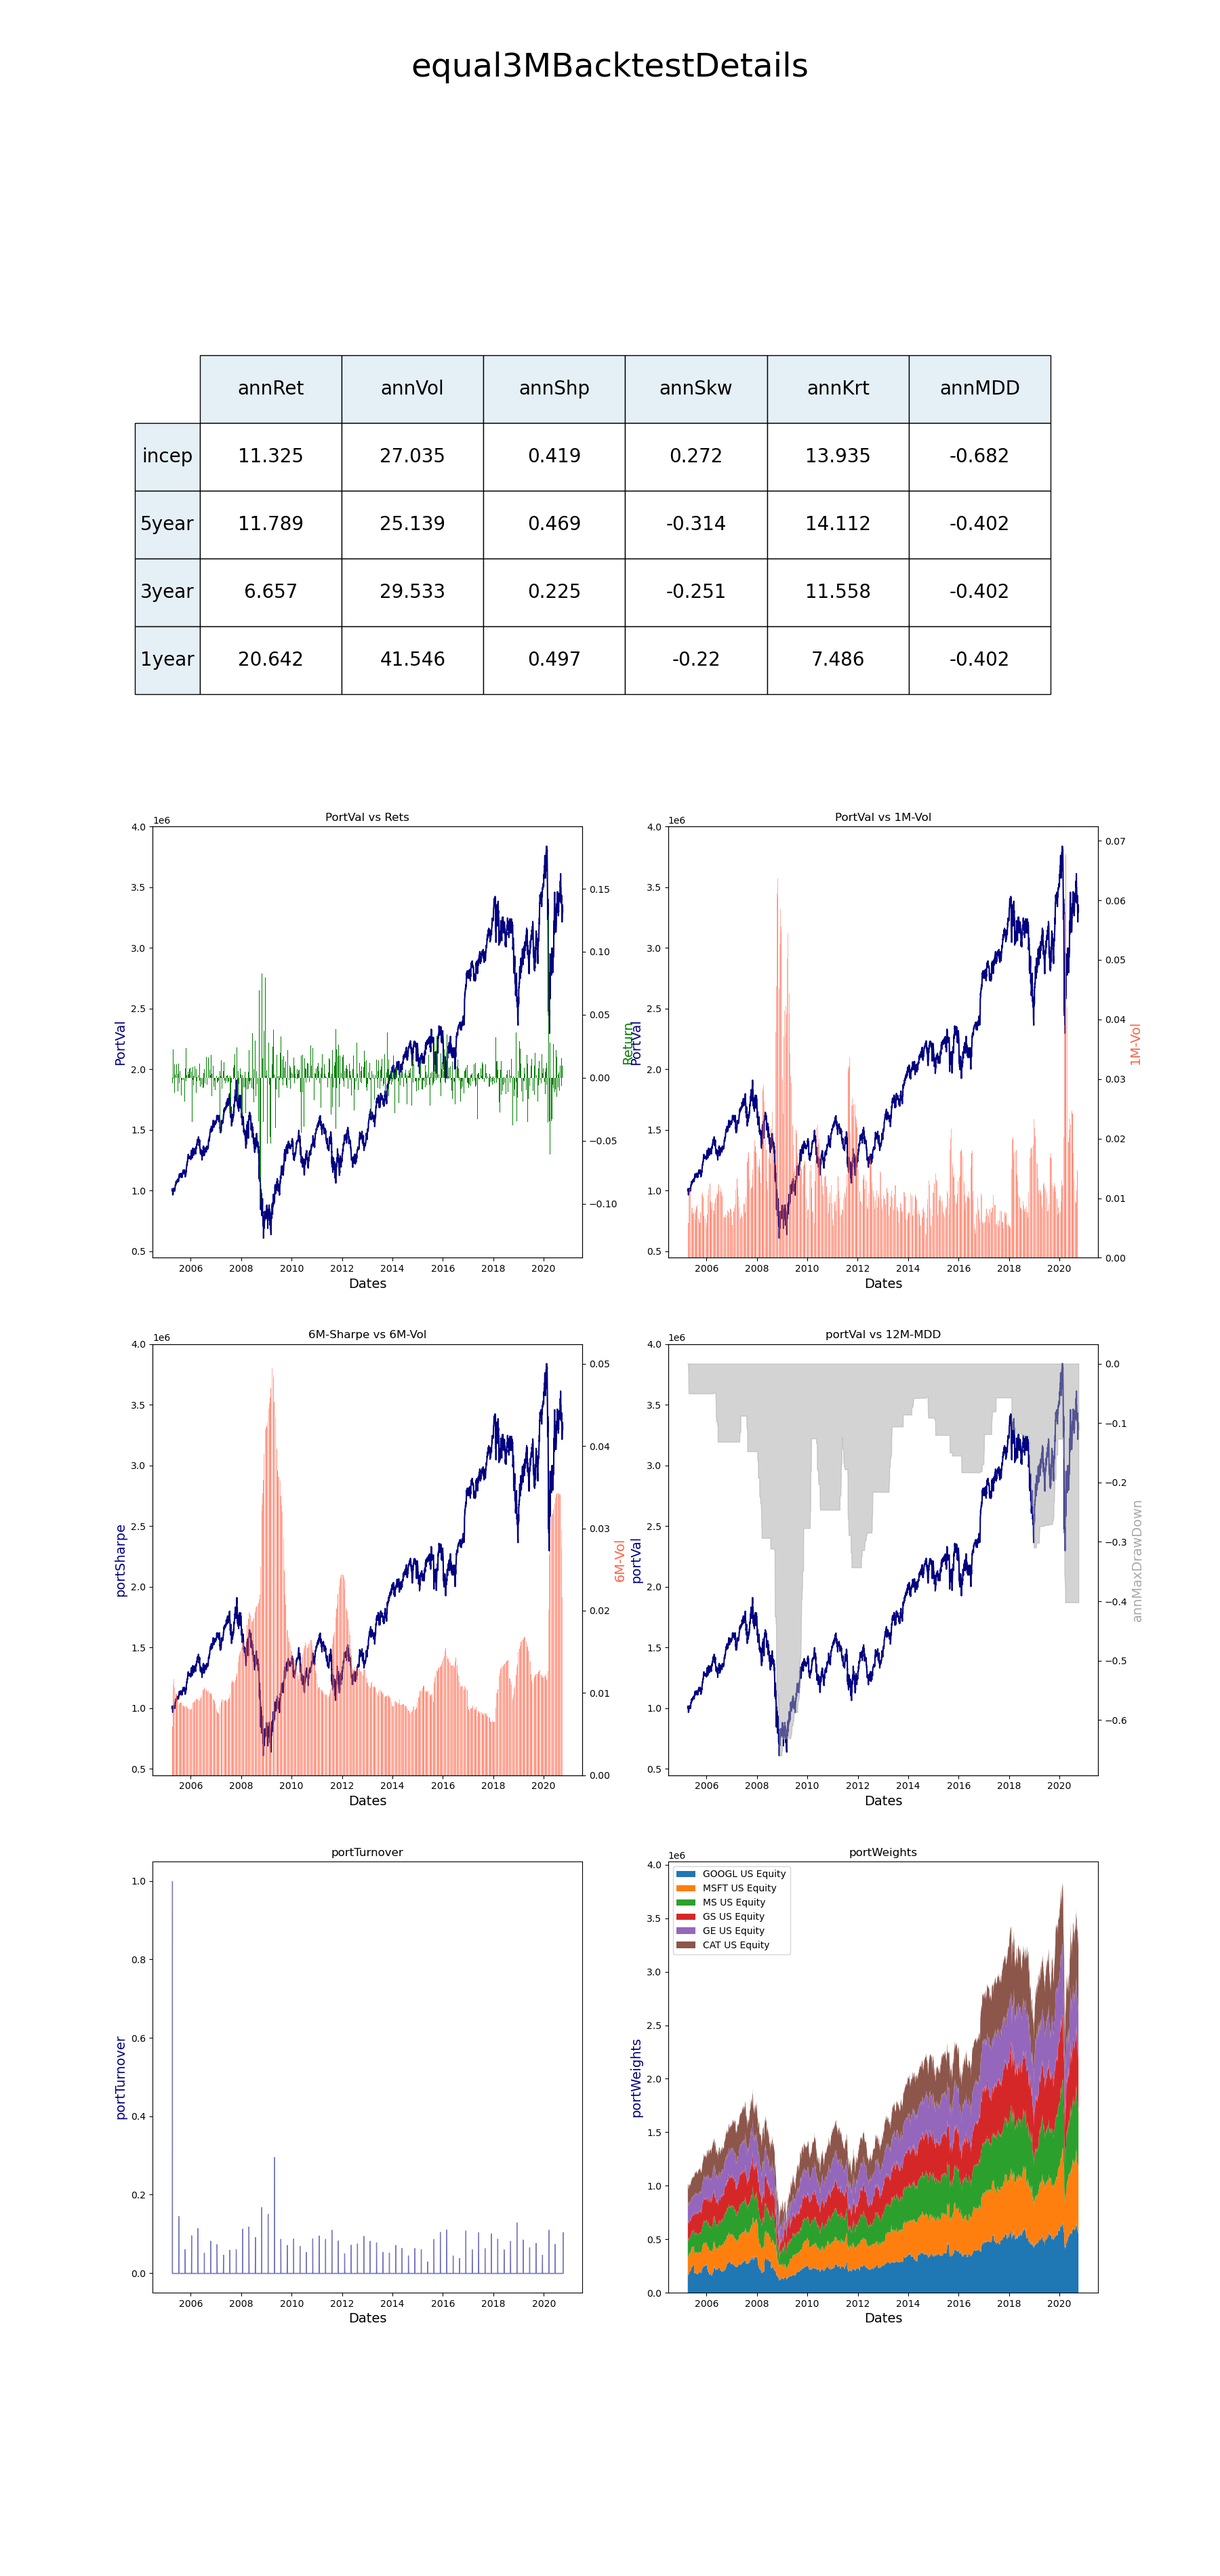
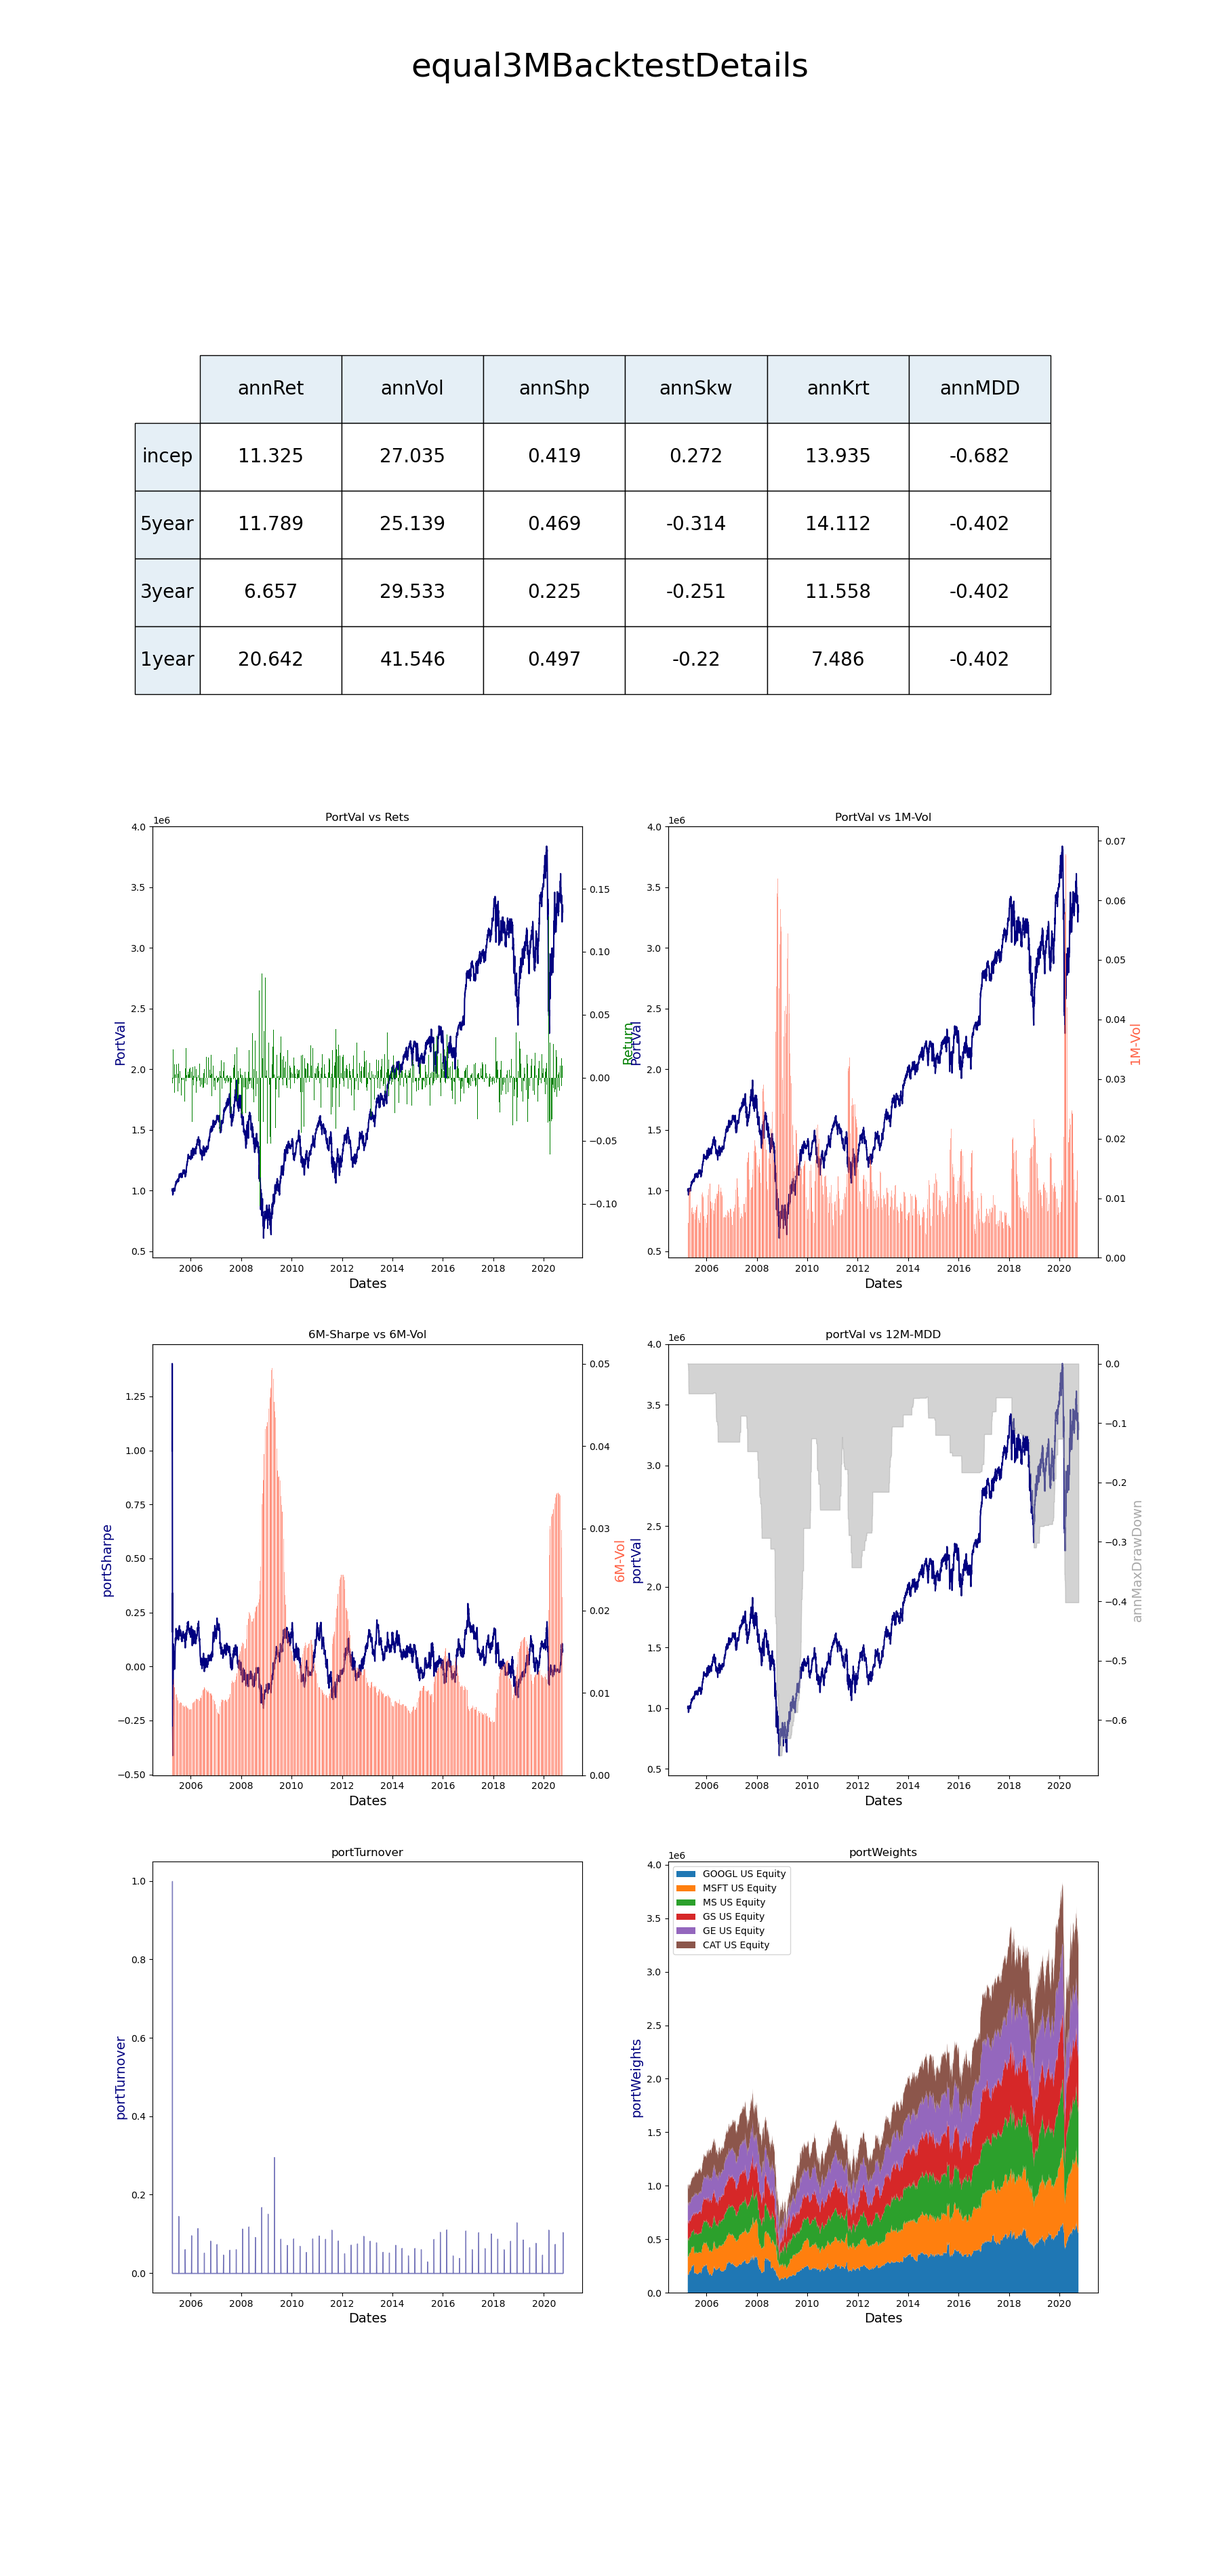
commit 1005

Changed region(s): [[0.1244, 0.5589, 0.4667, 0.6832], [0.3733, 0.5279, 0.4667, 0.59], [0.0933, 0.59, 0.1244, 0.6211]]

diff --git a/generateReport.py b/generateReport.py
@@ -97,7 +97,7 @@ def generateReport(output_struct, param):
         portShp.append(rets/vol)
     # plot portval vs returns
     ax3 = fig.add_subplot(gs[2,0])
-    ax3.plot(dates, portVal, color="navy")
+    ax3.plot(dates, portShp, color="navy")
     ax3.set_xlabel("Dates",fontsize=14)
     ax3.set_ylabel("portSharpe",color="navy",fontsize=14)
     ax3.set_title('6M-Sharpe vs 6M-Vol')
